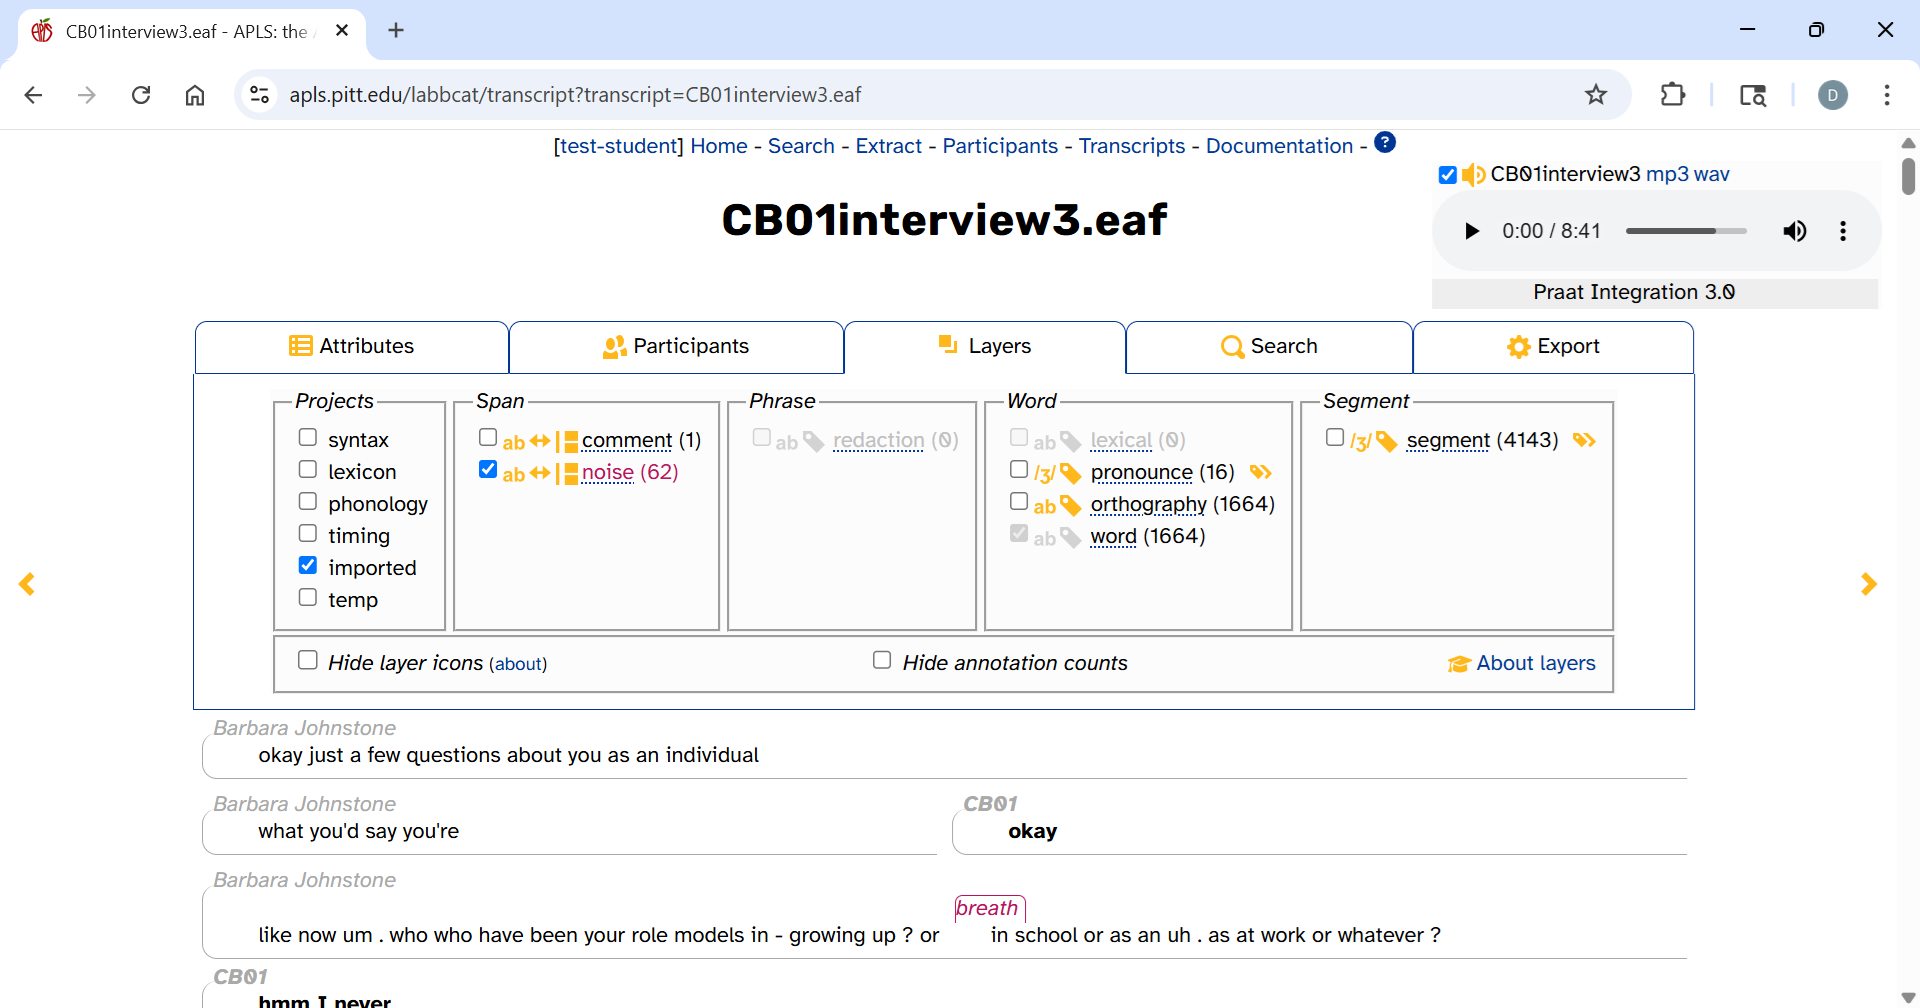
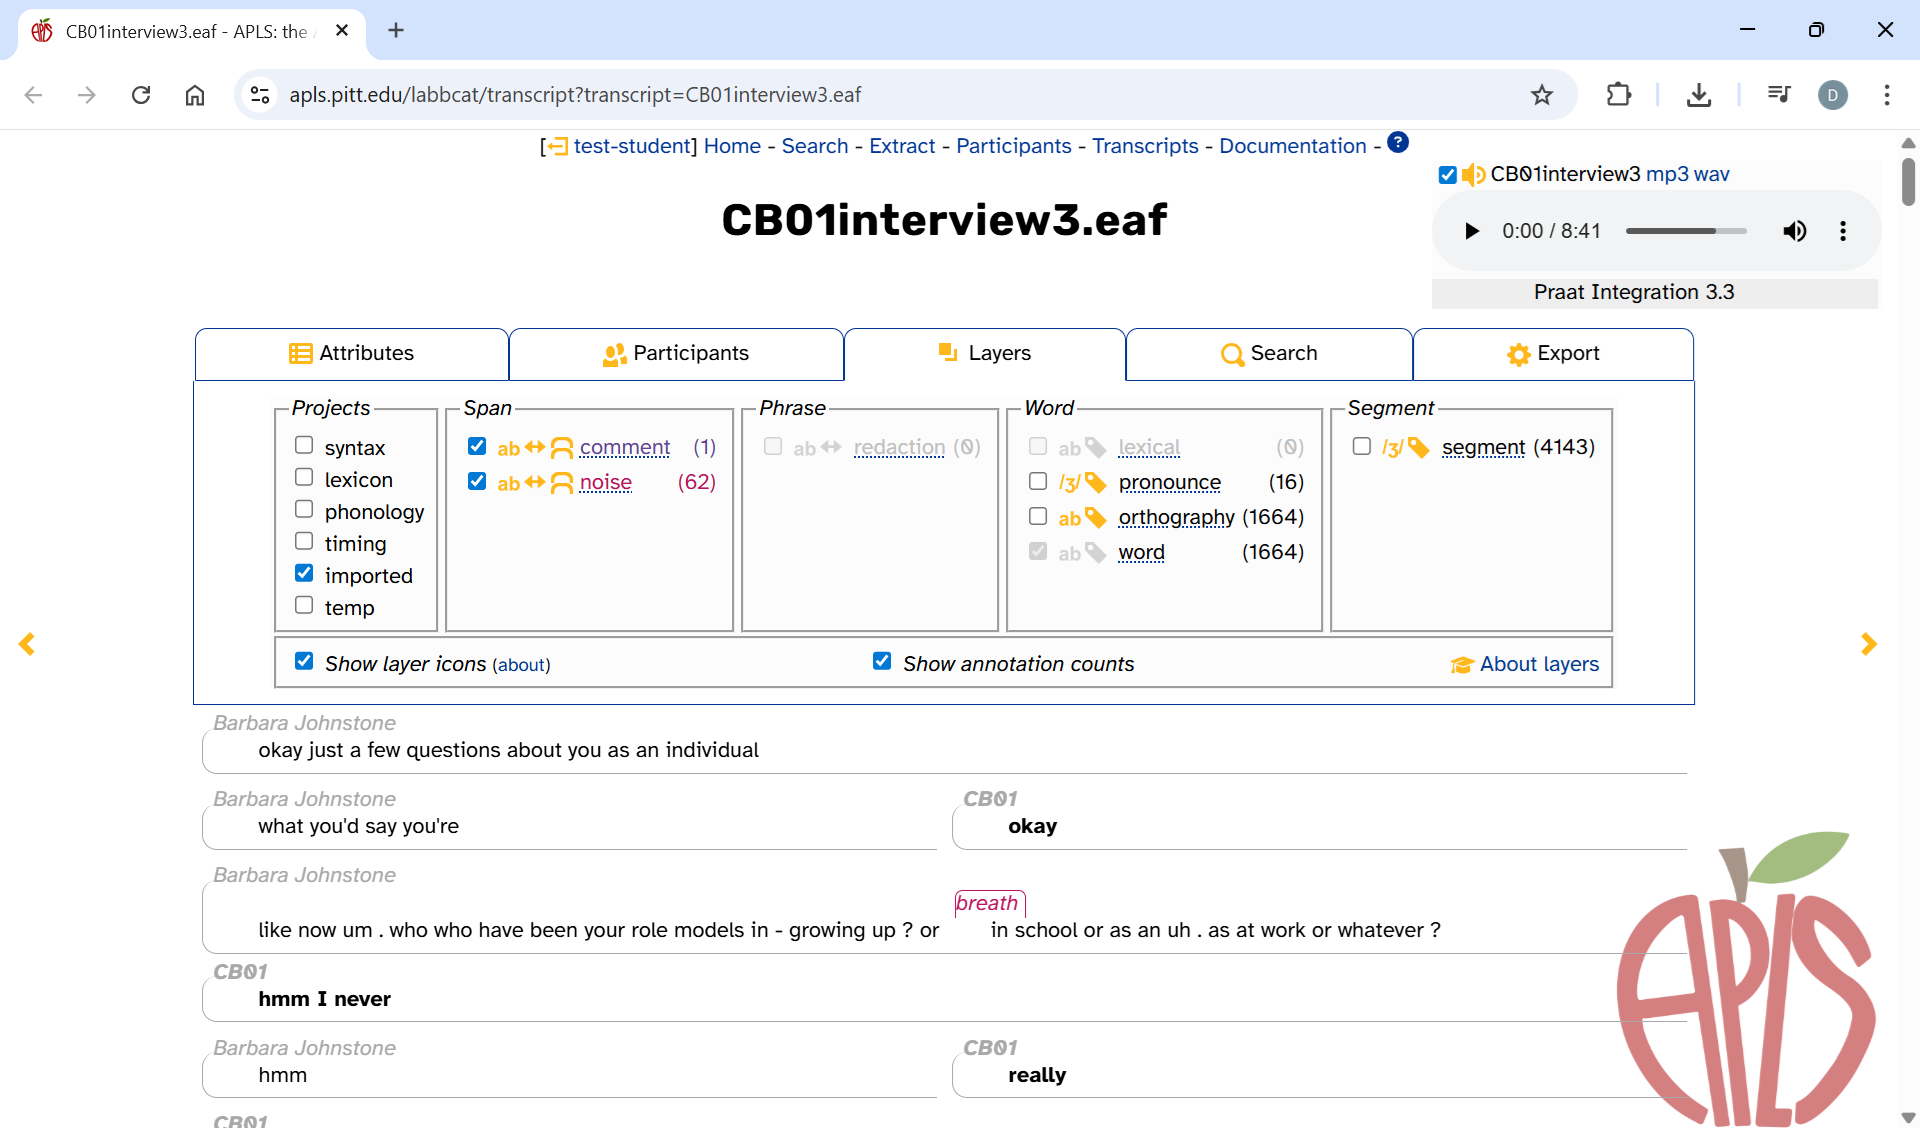
More v0.4.1 view-transcript loose ends

diff --git a/doc/how-to-use/praat-integration.md b/doc/how-to-use/praat-integration.md
@@ -5,7 +5,7 @@ permalink: /doc/praat-integration
 parent: Viewing a transcript
 grand_parent: How to use APLS
 nav_order: 10
-last_modified_date: 2025-06-20T11:13:19-04:00
+last_modified_date: 2025-10-21T23:26:22-04:00
 ---
 
 # {{ page.title }}
@@ -29,7 +29,7 @@ If your media player is displaying a small Praat logo (as shown below), this ind
 
 {% include screengrab.html src="transcript/no-praat-player.png" %}
 
-Once the Praat integration is set up, the media player will read `Praat integration 3.0`:
+Once the Praat integration is set up, the media player will read `Praat integration 3.3`:
 
 {% include screengrab.html src="transcript/player.png" %}
 
